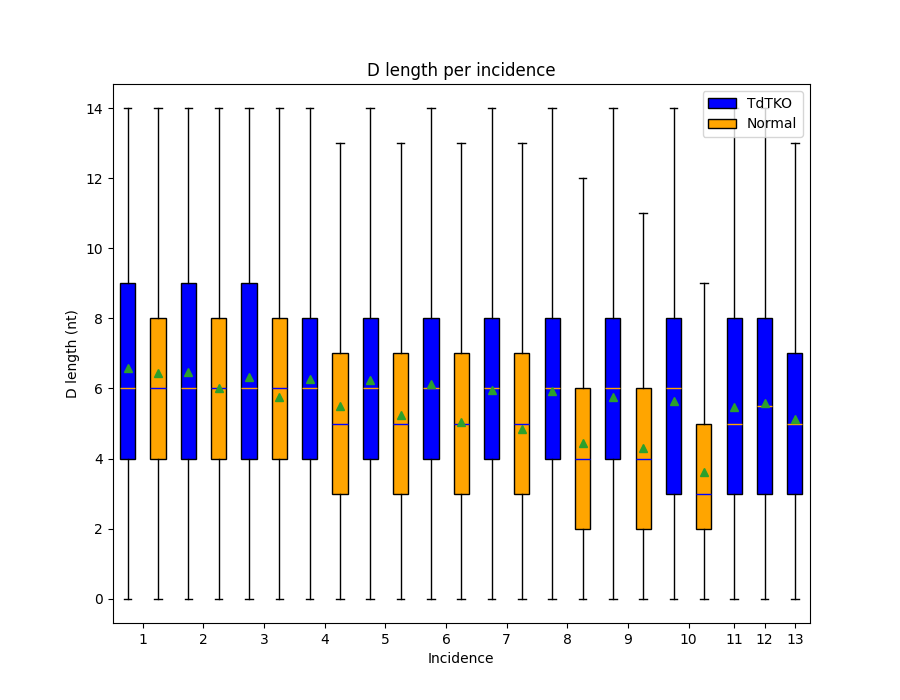
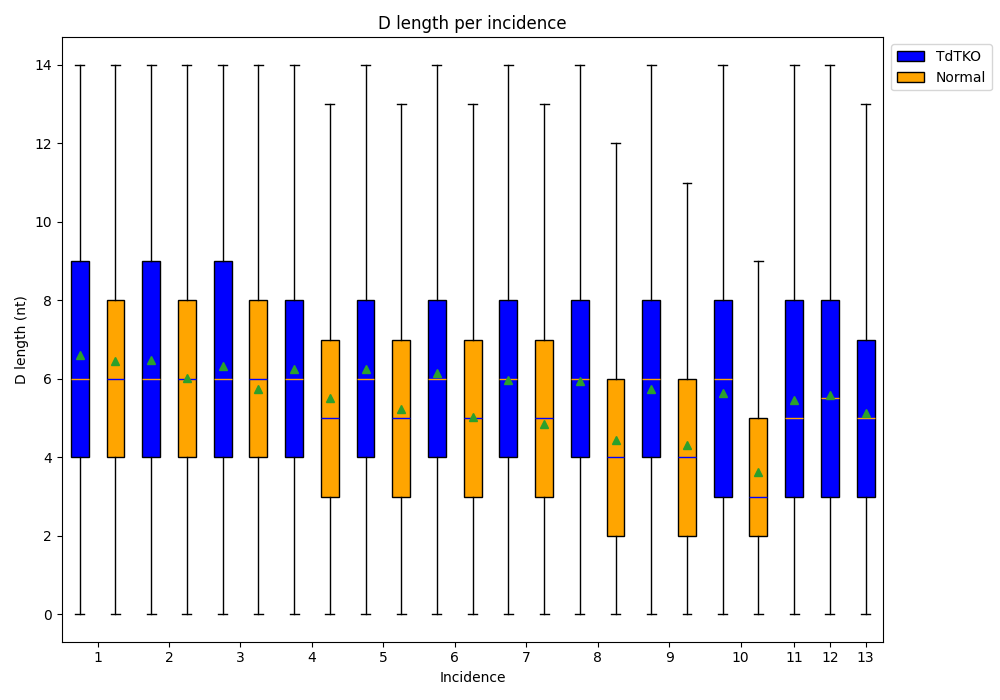
Updated most plots. filter_data.py changed so it can filter on phenotype (CD4+, CD5hi, Cd5lo)

diff --git a/code/filter_data.py b/code/filter_data.py
@@ -2,7 +2,8 @@ import csv
 from code_main import get_vdj_lengths, read_rtcr_refs
 
 
-def filter_tcrb_data(rtcr_ref: dict, tcrb_data_filenames, threshold, max_sequence_size, flt_strain, delim, out_filename):
+def filter_tcrb_data(rtcr_ref: dict, tcrb_data_filenames, threshold, max_sequence_size, flt_strain, flt_pheno, delim,
+                     out_filename):
     """Reads the datafile with the nucleotide sequences and used vdj genes
     :param rtcr_ref: dict - reference sequences of TCR genes.
     :param tcrb_data_filenames: list - List with paths to the files containing the TCR data.
@@ -11,6 +12,7 @@ def filter_tcrb_data(rtcr_ref: dict, tcrb_data_filenames, threshold, max_sequenc
     :param max_sequence_size: int - The limit junction sequence length from which sequences are not included in
     the filtered data.
     :param flt_strain: str - What strain you want in the filtered data. (TdT-/-, C57BL/6Â )
+    :param flt_pheno: str - What phenotype cell to want in the filtered data. (CD4+, CD5hi, CD5lo)
     :param delim: str - The separation symbol for the data file.
     :param out_filename: str - Path to a new file in which the filtered data is stored.
     :return:
@@ -25,15 +27,16 @@ def filter_tcrb_data(rtcr_ref: dict, tcrb_data_filenames, threshold, max_sequenc
             reader = csv.reader(csvfile, delimiter=delim)
             header = next(reader)
             for row in reader:
-                reads, v_gene, j_gene, cdr3nt_seq, strain = row[header.index('Number.of.reads')], \
+                reads, v_gene, j_gene, cdr3nt_seq, strain, phenotype = row[header.index('Number.of.reads')], \
                     row[header.index('V.gene')], row[header.index('J.gene')], \
-                    row[header.index('Junction.nucleotide.sequence')], row[header.index('strain')]
+                    row[header.index('Junction.nucleotide.sequence')], row[header.index('strain')], \
+                    row[header.index('phenotype')]
                 line = get_vdj_lengths([v_gene, j_gene, cdr3nt_seq], rtcr_ref)
-                if int(reads) > threshold and len(cdr3nt_seq) < max_sequence_size and strain == flt_strain:
+                if int(reads) > threshold and len(cdr3nt_seq) < max_sequence_size and strain == flt_strain and \
+                        phenotype == flt_pheno:
                     column += 1
-                    v_end, j_start, phred, phenotype = row[header.index('V.gene.end.position')], \
-                        row[header.index('J.gene.start.position')], row[header.index('Minimum.Phred')], \
-                        row[header.index('phenotype')]
+                    v_end, j_start, phred = row[header.index('V.gene.end.position')], \
+                        row[header.index('J.gene.start.position')], row[header.index('Minimum.Phred')]
                     mouse_id = row[header.index('mouse')]
                     v_j_distance = str(int(line[2]) + int(line[6]))
                     out_line = [str(column), mouse_id, reads]
@@ -51,23 +54,25 @@ if __name__ == '__main__':
     refs = read_rtcr_refs()
 
     files = [
-        "C:\\Users\\gabev\\PycharmProjects\\MRP_TdTKO_mice\\data_files\\TdTKo\\GSM6893351_Mandl-01-122016.tsv",
-        "C:\\Users\\gabev\\PycharmProjects\\MRP_TdTKO_mice\\data_files\\TdTKo\\GSM6893356_Mandl-20-042016.tsv",
-        "C:\\Users\\gabev\\PycharmProjects\\MRP_TdTKO_mice\\data_files\\TdTKo\\GSM6893359_Mandl-25-112016.tsv",
-        "C:\\Users\\gabev\\PycharmProjects\\MRP_TdTKO_mice\\data_files\\TdTKo\\GSM6893360_Mandl-4-052016.tsv",
-        "C:\\Users\\gabev\\PycharmProjects\\MRP_TdTKO_mice\\data_files\\TdTKo\\GSM6893362_Mandl-AF-human-07082016.tsv"
-        ]
-    new_filename = f'..\\data_files\\B6\\filtered_data\\filtered_data_Normal.tsv'
-    b6 = 'C57BL/6Â '
-    filter_tcrb_data(refs, files, 1, 64, b6, '\t', new_filename)
-
-    files = [
         "C:\\Users\\gabev\\PycharmProjects\\MRP_TdTKO_mice\\data_files\\B6\\GSM6893369_RP-Mandl-28-M65&M66.tsv",
         "C:\\Users\\gabev\\PycharmProjects\\MRP_TdTKO_mice\\data_files\\B6\\GSM6893370_RP-Mandl-30-M67&M68.tsv",
         "C:\\Users\\gabev\\PycharmProjects\\MRP_TdTKO_mice\\data_files\\B6\\GSM6893365_RP-Mandl-05-M69&M70.tsv",
         "C:\\Users\\gabev\\PycharmProjects\\MRP_TdTKO_mice\\data_files\\B6\\GSM6893366_RP-Mandl-06-M71&M72.tsv",
         "C:\\Users\\gabev\\PycharmProjects\\MRP_TdTKO_mice\\data_files\\B6\\GSM6893367_RP-Mandl-07-M73&M74.tsv"
     ]
-    new_filename = f'..\\data_files\\TdTKo\\filtered_data\\filtered_data_TdTKO.tsv'
+
+    new_filename = f'..\\data_files\\B6\\filtered_data\\filtered_data_Normal (1).tsv'
+    b6 = 'C57BL/6Â '
+    pheno = 'CD4+'
+    filter_tcrb_data(refs, files, 1, 64, b6, pheno, '\t', new_filename)
+
+    files = [
+        "C:\\Users\\gabev\\PycharmProjects\\MRP_TdTKO_mice\\data_files\\TdTKo\\GSM6893351_Mandl-01-122016.tsv",
+        "C:\\Users\\gabev\\PycharmProjects\\MRP_TdTKO_mice\\data_files\\TdTKo\\GSM6893356_Mandl-20-042016.tsv",
+        "C:\\Users\\gabev\\PycharmProjects\\MRP_TdTKO_mice\\data_files\\TdTKo\\GSM6893359_Mandl-25-112016.tsv",
+        "C:\\Users\\gabev\\PycharmProjects\\MRP_TdTKO_mice\\data_files\\TdTKo\\GSM6893360_Mandl-4-052016.tsv",
+        "C:\\Users\\gabev\\PycharmProjects\\MRP_TdTKO_mice\\data_files\\TdTKo\\GSM6893362_Mandl-AF-human-07082016.tsv"
+    ]
+    new_filename = f'..\\data_files\\TdTKo\\filtered_data\\filtered_data_TdTKO (1).tsv'
     tdt = 'TdT-/-'
-    filter_tcrb_data(refs, files, 1, 64, tdt, '\t', new_filename)
+    filter_tcrb_data(refs, files, 1, 64, tdt, pheno, '\t', new_filename)

diff --git a/code/plots.py b/code/plots.py
@@ -41,15 +41,16 @@ def plot_fractions_ins():
     x_points = [0, 1, 2, 5, 10, 15, 20, 25, 50]
 
     y_points = [47.94, 36.92, 35.54, 32.07, 27.96, 25.08, 22.90, 21.25, 16.33]
-    plt.plot(x_points, y_points, label='TdTKO')
+    plt.plot(x_points, y_points, label='TdTKO', color='blue')
+    plt.scatter(x_points, y_points, color='blue', s=10)
 
     y_points = [94.11, 92.65, 91.87, 90.33, 88.60, 86.98, 85.33, 83.66, 74.89]
-    plt.plot(x_points, y_points, label='Normal')
+    plt.plot(x_points, y_points, label='Normal', color='orange')
+    plt.scatter(x_points, y_points, color='orange', s=10)
 
-    plt.title('Fraction of sequences with insertions per threshold of supporting reads')
+    plt.title('Fraction of sequences with insertions \nper threshold of supporting reads')
     plt.xlabel('Supporting reads')
-    plt.ylabel('Fraction of seq with insertions')
-    plt.xticks([0, 1, 2, 5, 10, 15, 20, 25, 50])
+    plt.ylabel('Fraction of seq with insertions (%)')
     plt.legend()
     plt.savefig('C:\\Users\\gabev\\PycharmProjects\\MRP_TdTKO_mice\\img\\Normal_TdTKO_fraction_insertions_per_reads.png')
     plt.close()
@@ -88,11 +89,17 @@ def plot_dist_junction_sequence_length(x_points_lists, y_points_lists, labels, a
 
 def plot_dist_insertion_length(x_points_lists, y_points_lists, labels):
     plt.figure()
-    for e in range(len(x_points_lists)):
-        x_points, y_points, label = x_points_lists[e], y_points_lists[e], labels[e]
-        plt.plot(x_points, y_points, label=label)
+    x_, y_ = [x for x in x_points_lists[0] if x_points_lists[0].index(x) <= 20], [y for y in y_points_lists[0]
+                                                                                  if y_points_lists[0].index(y) <= 20]
+
+    plt.plot(x_, y_, label=labels[0], color='blue')
+    plt.scatter(x_, y_, color='blue', s=10)
+    x_, y_ = [x for x in x_points_lists[1] if x_points_lists[1].index(x) <= 20], [y for y in y_points_lists[1]
+                                                                                  if y_points_lists[1].index(y) <= 20]
+    plt.plot(x_, y_, label=labels[1], color='orange')
+    plt.scatter(x_, y_, color='orange', s=10)
+    plt.xticks(numpy.arange(0, 21))
     plt.title('Distribution of insertion lengths')
-    # plt.ticklabel_format(style='sci', axis='y', scilimits=(0, 0))
     plt.xlabel('Insertion length (nt)')
     plt.ylabel('Percentage of sequences with an insertion (%)')
     plt.legend()
@@ -215,7 +222,7 @@ def plot_line_and_scatter_per_incidence(x_points_list, y_points_list, labels, pl
 
 
 def plot_boxplot_per_incidence(data, labels, positions, plot_labels, ticks, tick_labels, title, out):
-    plt.figure(figsize=(9, 7))
+    plt.figure(figsize=(10, 7))
     bplot1 = plt.boxplot(data[0], showfliers=False, patch_artist=True, showmeans=True, positions=positions[0])
     bplot2 = plt.boxplot(data[1], showfliers=False, patch_artist=True, showmeans=True, positions=positions[1])
     colors = ['blue', 'orange']
@@ -232,7 +239,8 @@ def plot_boxplot_per_incidence(data, labels, positions, plot_labels, ticks, tick
     plt.xlabel(plot_labels[0])
     plt.ylabel(plot_labels[1])
     plt.title(title)
-    plt.legend([bplot1["boxes"][0], bplot2["boxes"][0]], labels, loc='upper right')
+    plt.legend([bplot1["boxes"][0], bplot2["boxes"][0]], labels, bbox_to_anchor=(1.14, 1.0), loc='upper right')
+    plt.tight_layout()
     plt.savefig(out)
     plt.close()
 
@@ -259,5 +267,5 @@ def number_of_seq_per_incidence():
 
 if __name__ == '__main__':
     # plot_supporting_reads()
-    # plot_fractions_ins()
-    number_of_seq_per_incidence()
+    plot_fractions_ins()
+    # number_of_seq_per_incidence()

diff --git a/code/abundance_sequences.py b/code/abundance_sequences.py
@@ -10,7 +10,7 @@ def get_abundance(filename: str, exp: str):
     :return:
     """
     sequences = {
-        # sequence: [count, [d_lengths], [mice]]
+        # sequence: [count, [d_lengths], [mice], [VJ distances], [insertions]]
     }
     with open(filename, 'r') as file:
         reader = csv.reader(file, delimiter='\t')
